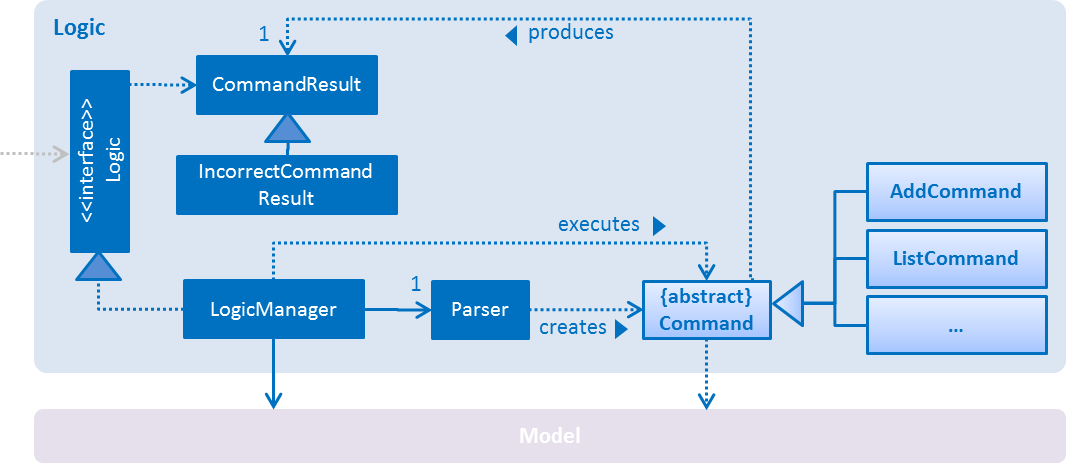
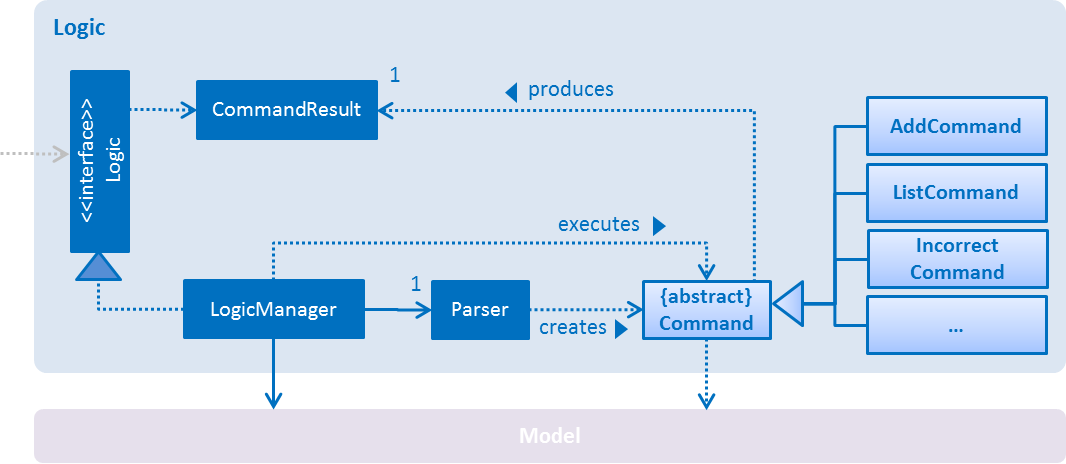
[118] Remove IncorrectCommandResult (#118)
* Rename events package controller -> ui

* Remove IncorrectCommandResult

diff --git a/src/main/java/seedu/address/ui/CommandBox.java b/src/main/java/seedu/address/ui/CommandBox.java
@@ -1,11 +1,13 @@
 package seedu.address.ui;
 
+import com.google.common.eventbus.Subscribe;
 import javafx.fxml.FXML;
 import javafx.scene.Node;
 import javafx.scene.control.SplitPane;
 import javafx.scene.control.TextField;
 import javafx.scene.layout.AnchorPane;
 import javafx.stage.Stage;
+import seedu.address.commons.events.ui.IncorrectCommandAttemptedEvent;
 import seedu.address.logic.Logic;
 import seedu.address.logic.commands.*;
 import seedu.address.commons.util.FxViewUtil;
@@ -20,6 +22,7 @@ public class CommandBox extends UiPart {
     private AnchorPane placeHolderPane;
     private AnchorPane commandPane;
     private ResultDisplay resultDisplay;
+    String previousCommandTest;
 
     private Logic logic;
 
@@ -38,6 +41,7 @@ public class CommandBox extends UiPart {
     public void configure(ResultDisplay resultDisplay, Logic logic) {
         this.resultDisplay = resultDisplay;
         this.logic = logic;
+        registerAsAnEventHandler(this);
     }
 
     private void addToPlaceholder() {
@@ -62,24 +66,50 @@ public class CommandBox extends UiPart {
         this.placeHolderPane = pane;
     }
 
-    public void processCommandInput(String commandText) {
-        mostRecentResult = logic.execute(commandText);
+
+    @FXML
+    private void handleCommandInputChanged() {
+        //Take a copy of the command text
+        previousCommandTest = commandTextField.getText();
+
+        /* We assume the command is correct. If it is incorrect, the command box will be changed accordingly
+         * in the event handling code {@link #handleIncorrectCommandAttempted}
+         */
+        setStyleToIndicateCorrectCommand();
+
+        mostRecentResult = logic.execute(previousCommandTest);
         resultDisplay.postMessage(mostRecentResult.feedbackToUser);
         logger.info("Result: " + mostRecentResult.feedbackToUser);
     }
 
-    @FXML
-    private void handleCommandInputChanged() {
-        if (commandTextField.getStyleClass().contains("error")) commandTextField.getStyleClass().remove("error");
 
-        processCommandInput(commandTextField.getText());
+    /**
+     * Sets the command box style to indicate a correct command.
+     */
+    private void setStyleToIndicateCorrectCommand() {
+        commandTextField.getStyleClass().remove("error");
+        commandTextField.setText("");
+    }
 
-        if (mostRecentResult instanceof IncorrectCommandResult) {
-            commandTextField.getStyleClass().add("error");
-            logger.fine("Invalid command: " + commandTextField.getText());
-        } else {
-            commandTextField.setText("");
-        }
+    @Subscribe
+    private void handleIncorrectCommandAttempted(IncorrectCommandAttemptedEvent icae){
+        logger.fine("Invalid command: " + previousCommandTest);
+        setStyleToIndicateIncorrectCommand();
+        restoreCommandText();
+    }
+
+    /**
+     * Restores the command box text to the previously entered command
+     */
+    private void restoreCommandText() {
+        commandTextField.setText(previousCommandTest);
+    }
+
+    /**
+     * Sets the command box style to indicate an error
+     */
+    private void setStyleToIndicateIncorrectCommand() {
+        commandTextField.getStyleClass().add("error");
     }
 
 }

diff --git a/src/main/java/seedu/address/commons/events/BaseEvent.java b/src/main/java/seedu/address/commons/events/BaseEvent.java
@@ -1,6 +1,6 @@
 package seedu.address.commons.events;
 
-import seedu.address.commons.events.controller.JumpToListRequestEvent;
+import seedu.address.commons.events.ui.JumpToListRequestEvent;
 
 public abstract class BaseEvent {
 
@@ -17,7 +17,7 @@ public abstract class BaseEvent {
      *     even if they are two different event objects. This is a weaker form of equality.
      *     e.g. if both events intended the selection to jump to the 1st element in the list. <br>
      *     The default implementation returns true of both objects are of the same class.
-     *     For example, comparing two distinct {@link seedu.address.commons.events.controller.ExitAppRequestEvent} will return
+     *     For example, comparing two distinct {@link seedu.address.commons.events.ui.ExitAppRequestEvent} will return
      *     true (because both intend to exit the app). <br>
      *     If the events are parameterized, e.g. {@link JumpToListRequestEvent} this method
      *     should be overriden to compare the parameters.

diff --git a/src/main/java/seedu/address/logic/commands/SelectCommand.java b/src/main/java/seedu/address/logic/commands/SelectCommand.java
@@ -2,7 +2,7 @@ package seedu.address.logic.commands;
 
 import seedu.address.commons.core.EventsCenter;
 import seedu.address.commons.core.Messages;
-import seedu.address.commons.events.controller.JumpToListRequestEvent;
+import seedu.address.commons.events.ui.JumpToListRequestEvent;
 import seedu.address.commons.core.UnmodifiableObservableList;
 import seedu.address.model.person.ReadOnlyPerson;
 
@@ -32,7 +32,8 @@ public class SelectCommand extends Command {
         UnmodifiableObservableList<ReadOnlyPerson> lastShownList = model.getFilteredPersonList();
 
         if (lastShownList.size() < targetIndex) {
-            return new IncorrectCommandResult(Messages.MESSAGE_INVALID_PERSON_DISPLAYED_INDEX);
+            indicateAttemptToExecuteIncorrectCommand();
+            return new CommandResult(Messages.MESSAGE_INVALID_PERSON_DISPLAYED_INDEX);
         }
 
         EventsCenter.getInstance().post(new JumpToListRequestEvent(targetIndex - 1));

diff --git a/src/main/java/seedu/address/commons/events/ui/IncorrectCommandAttemptedEvent.java b/src/main/java/seedu/address/commons/events/ui/IncorrectCommandAttemptedEvent.java
@@ -1,0 +1,31 @@
+package seedu.address.commons.events.ui;
+
+import seedu.address.commons.events.BaseEvent;
+import seedu.address.logic.commands.Command;
+
+/**
+ * Indicates an attempt to execute an incorrect command
+ */
+public class IncorrectCommandAttemptedEvent extends BaseEvent {
+
+    private final Command command;
+
+    public IncorrectCommandAttemptedEvent(Command command) {
+        this.command = command;
+    }
+
+    @Override
+    public String toString() {
+        return this.getClass().getSimpleName();
+    }
+
+    /**
+     * Returns true if both events intended the selection to jump to the same item in the list.
+     */
+    @Override
+    public boolean hasSameIntentionAs(BaseEvent other){
+        return (other != null)
+            && (other instanceof IncorrectCommandAttemptedEvent)
+            && (((IncorrectCommandAttemptedEvent) other).command.equals(this.command));
+    }
+}

diff --git a/src/main/java/seedu/address/ui/UiManager.java b/src/main/java/seedu/address/ui/UiManager.java
@@ -10,9 +10,9 @@ import seedu.address.MainApp;
 import seedu.address.commons.core.ComponentManager;
 import seedu.address.commons.core.Config;
 import seedu.address.commons.core.LogsCenter;
-import seedu.address.commons.events.controller.JumpToListRequestEvent;
-import seedu.address.commons.events.controller.PersonPanelSelectionChangedEvent;
-import seedu.address.commons.events.controller.ShowHelpEvent;
+import seedu.address.commons.events.ui.JumpToListRequestEvent;
+import seedu.address.commons.events.ui.PersonPanelSelectionChangedEvent;
+import seedu.address.commons.events.ui.ShowHelpEvent;
 import seedu.address.commons.events.storage.DataReadingExceptionEvent;
 import seedu.address.commons.events.storage.DataSavingExceptionEvent;
 import seedu.address.commons.util.StringUtil;

diff --git a/src/main/java/seedu/address/ui/StatusBarFooter.java b/src/main/java/seedu/address/ui/StatusBarFooter.java
@@ -19,7 +19,7 @@ import seedu.address.commons.events.model.AddressBookChangedEvent;
 import seedu.address.commons.util.FxViewUtil;
 
 /**
- * A controller for the status bar that is displayed at the footer of the application.
+ * A ui for the status bar that is displayed at the footer of the application.
  */
 public class StatusBarFooter extends UiPart {
     private static final Logger logger = LogsCenter.getLogger(StatusBarFooter.class);
@@ -50,7 +50,7 @@ public class StatusBarFooter extends UiPart {
         setSyncStatus("Not updated yet in this session");
         addSaveLocation();
         setSaveLocation("./" + saveLocation);
-        EventsCenter.getInstance().registerHandler(this);
+        registerAsAnEventHandler(this);
     }
 
     private void addMainPane() {

diff --git a/src/main/java/seedu/address/logic/commands/DeleteCommand.java b/src/main/java/seedu/address/logic/commands/DeleteCommand.java
@@ -32,7 +32,8 @@ public class DeleteCommand extends Command {
         UnmodifiableObservableList<ReadOnlyPerson> lastShownList = model.getFilteredPersonList();
 
         if (lastShownList.size() < targetIndex) {
-            return new IncorrectCommandResult(Messages.MESSAGE_INVALID_PERSON_DISPLAYED_INDEX);
+            indicateAttemptToExecuteIncorrectCommand();
+            return new CommandResult(Messages.MESSAGE_INVALID_PERSON_DISPLAYED_INDEX);
         }
 
         ReadOnlyPerson personToDelete = lastShownList.get(targetIndex - 1);
@@ -45,4 +46,5 @@ public class DeleteCommand extends Command {
 
         return new CommandResult(String.format(MESSAGE_DELETE_PERSON_SUCCESS, personToDelete));
     }
+
 }

diff --git a/src/main/java/seedu/address/ui/UiPartLoader.java b/src/main/java/seedu/address/ui/UiPartLoader.java
@@ -17,7 +17,7 @@ public class UiPartLoader {
     }
 
     /**
-     * Returns the controller class for a specific UI Part.
+     * Returns the ui class for a specific UI Part.
      *
      * @param primaryStage The primary stage for the view.
      * @param placeholder The placeholder where the loaded Ui Part is added.
@@ -36,9 +36,9 @@ public class UiPartLoader {
     }
 
     /**
-     * Returns the controller class for a specific UI Part.
+     * Returns the ui class for a specific UI Part.
      *
-     * @param seedUiPart The UiPart object to be used as the controller.
+     * @param seedUiPart The UiPart object to be used as the ui.
      * @param <T> The type of the UiPart
      */
 

diff --git a/src/main/java/seedu/address/logic/commands/Command.java b/src/main/java/seedu/address/logic/commands/Command.java
@@ -1,6 +1,8 @@
 package seedu.address.logic.commands;
 
+import seedu.address.commons.core.EventsCenter;
 import seedu.address.commons.core.Messages;
+import seedu.address.commons.events.ui.IncorrectCommandAttemptedEvent;
 import seedu.address.model.Model;
 
 /**
@@ -33,5 +35,12 @@ public abstract class Command {
      */
     public void setData(Model model) {
         this.model = model;
+    }
+
+    /**
+     * Raises an event to indicate an attempt to execute an incorrect command
+     */
+    protected void indicateAttemptToExecuteIncorrectCommand() {
+        EventsCenter.getInstance().post(new IncorrectCommandAttemptedEvent(this));
     }
 }

diff --git a/src/test/java/seedu/address/logic/LogicManagerTest.java b/src/test/java/seedu/address/logic/LogicManagerTest.java
@@ -8,8 +8,8 @@ import org.junit.Test;
 import org.junit.rules.TemporaryFolder;
 import seedu.address.commons.core.EventsCenter;
 import seedu.address.logic.commands.*;
-import seedu.address.commons.events.controller.JumpToListRequestEvent;
-import seedu.address.commons.events.controller.ShowHelpEvent;
+import seedu.address.commons.events.ui.JumpToListRequestEvent;
+import seedu.address.commons.events.ui.ShowHelpEvent;
 import seedu.address.commons.events.model.AddressBookChangedEvent;
 import seedu.address.model.AddressBook;
 import seedu.address.model.Model;

diff --git a/src/main/java/seedu/address/ui/UiPart.java b/src/main/java/seedu/address/ui/UiPart.java
@@ -41,6 +41,14 @@ public abstract class UiPart {
     }
 
     /**
+     * Registers the object as an event handler at the {@link EventsCenter}
+     * @param handler usually {@code this}
+     */
+    protected void registerAsAnEventHandler(Object handler) {
+        EventsCenter.getInstance().registerHandler(handler);
+    }
+
+    /**
      * Override this method to receive the main Node generated while loading the view from the .fxml file.
      * @param node
      */

diff --git a/src/main/java/seedu/address/MainApp.java b/src/main/java/seedu/address/MainApp.java
@@ -8,7 +8,7 @@ import seedu.address.commons.core.Config;
 import seedu.address.commons.core.EventsCenter;
 import seedu.address.commons.core.LogsCenter;
 import seedu.address.commons.core.Version;
-import seedu.address.commons.events.controller.ExitAppRequestEvent;
+import seedu.address.commons.events.ui.ExitAppRequestEvent;
 import seedu.address.commons.exceptions.DataConversionException;
 import seedu.address.commons.util.StringUtil;
 import seedu.address.logic.Logic;
